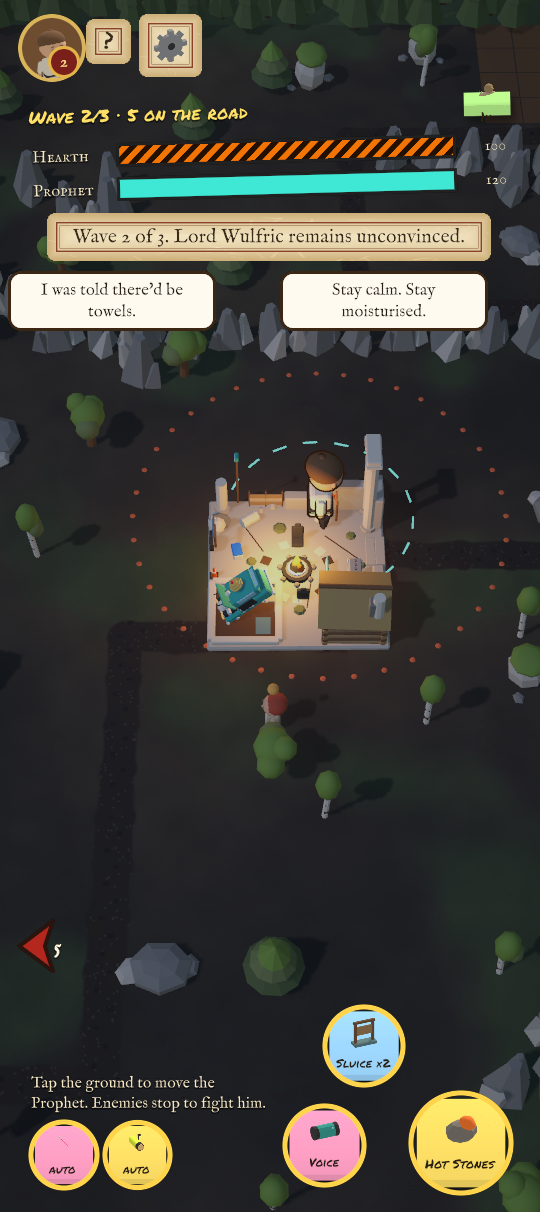
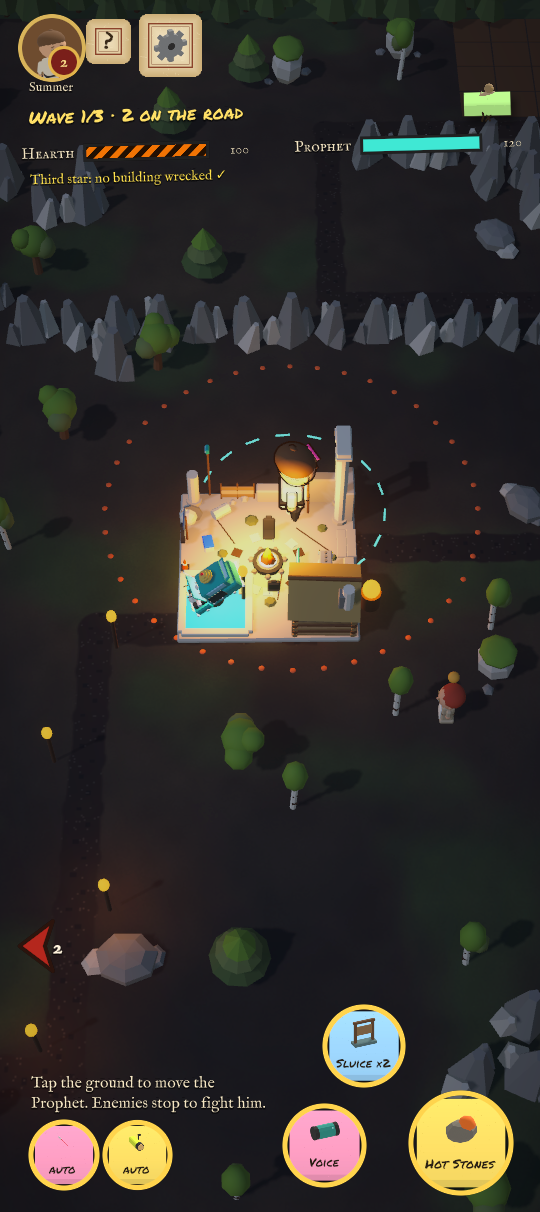
0.2.0 notes: the remodel's first step (the Hearth's teal pool, the people, the Cottage and the Flinger); the Night previews show the new look

diff --git a/docs/release-notes/0.2.0.md b/docs/release-notes/0.2.0.md
@@ -70,10 +70,15 @@ Torchlight, fire and ink outlines.
 - The ✓ ✗ Turn buttons never cover the Hearth while placing a building.
 - The server's replay check shows in development builds only.
 
-### The look (first step of the remodel)
+### The look (the first step of the remodel, F1)
 - At Night: a warm pool of light round the Hearth, fire baskets, torches up the raiders' road, bloom on the fire, a
   cooler and punchier grade, a soft vignette.
 - Ink outlines on the Prophet, the raiders, the buildings and the towers.
+- The Hearth: the car nose-down in a pool of its own teal glow, the brightest thing on the board at Night.
+- The people: bigger heads and hands. The raiders in the lord's red with gold trim, one team in the dark. The Prophet
+  in a white bathrobe over a teal T-shirt, pink sunglasses pushed up, flip-flops still on.
+- The Cottage half-timbered on a stone footing with a woodpile; the Sapling Flinger on wheels.
+- Before and after: `art/previews/night/` (this build) against the same files at `a15538e` (0.1.0's look).
 
 ## Before it goes out
 
